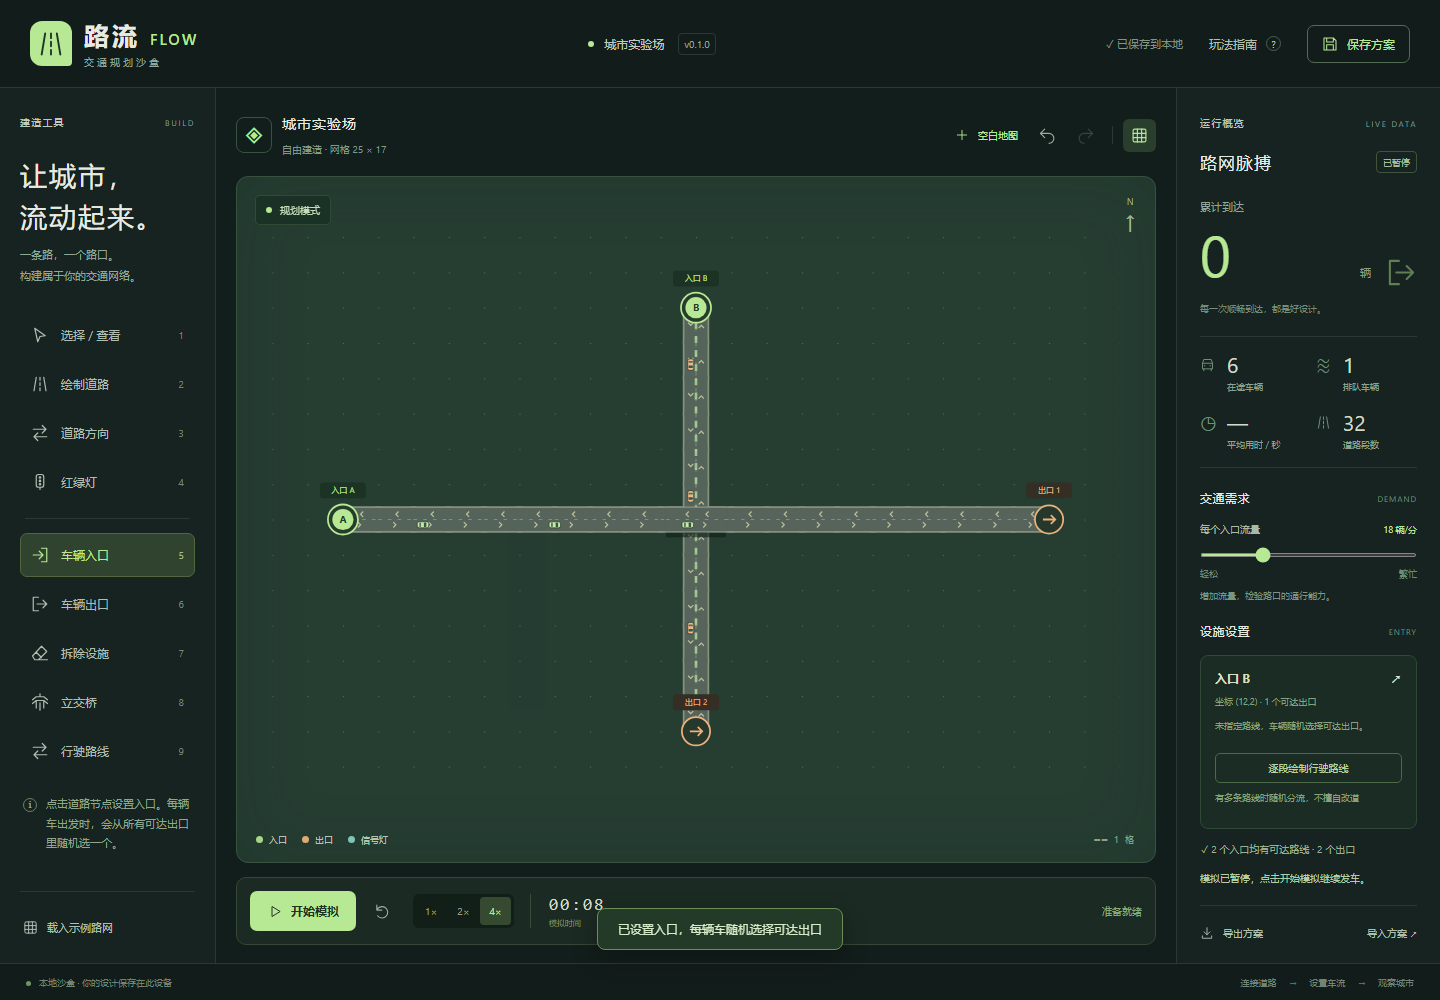
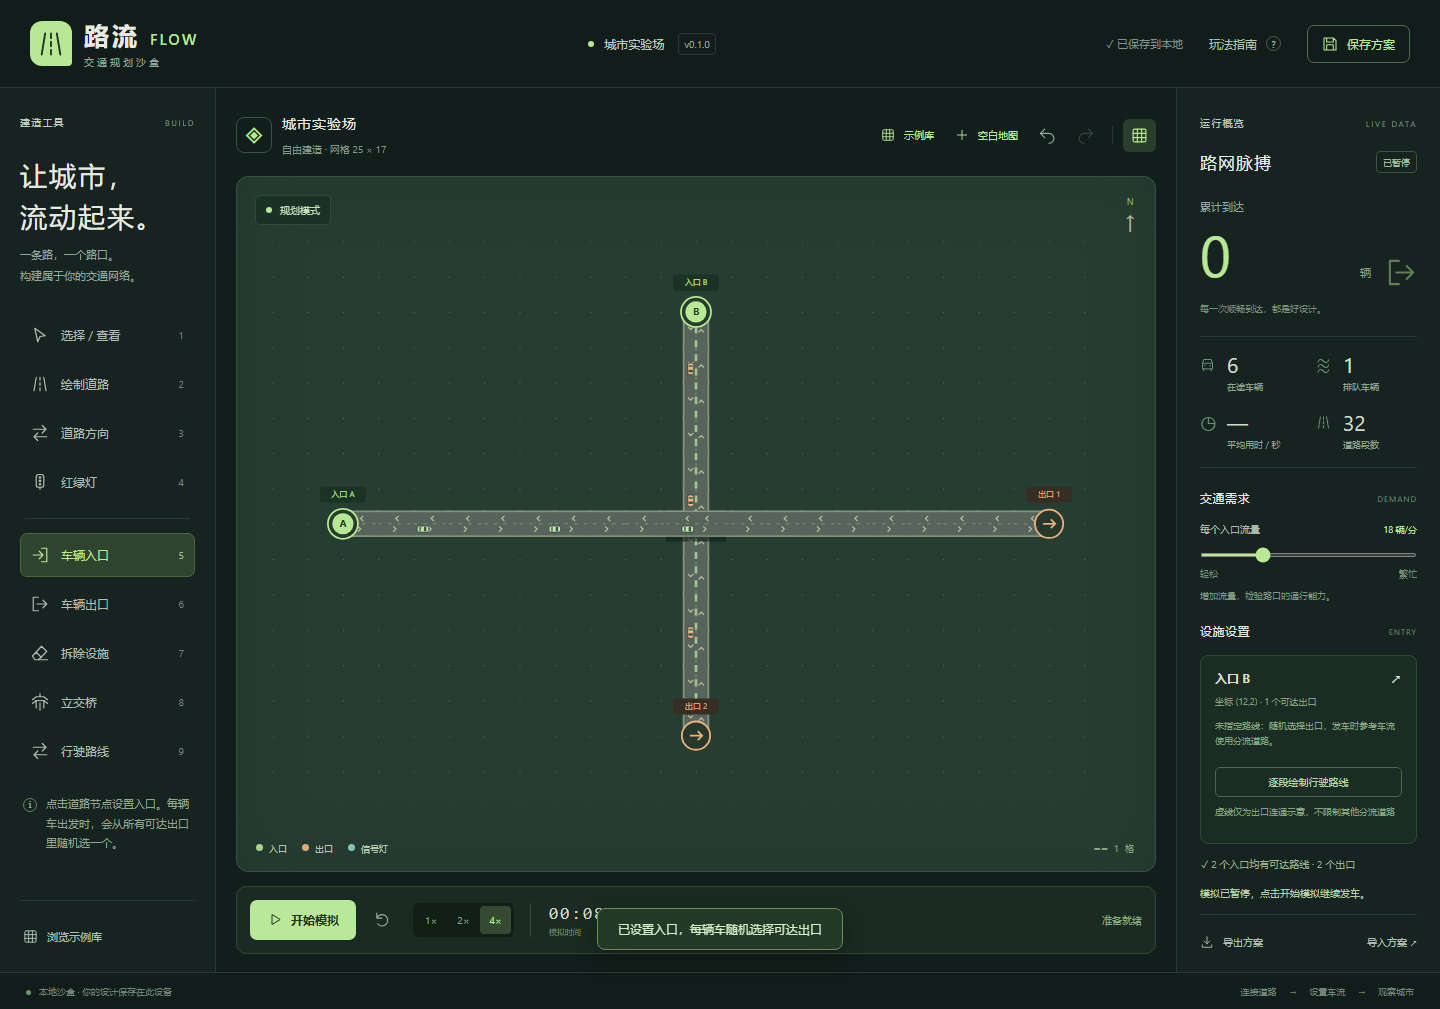
docs: verify six traffic examples and record browser evidence

diff --git a/doc/第一版本测试报告.md b/doc/第一版本测试报告.md
@@ -1,13 +1,13 @@
 # 路流第一版本测试报告
 
-日期：2026-10-21。Windows、Node 24.19.0；Chromium 151.0.7922.34。最终范围包括空白地图、随机出口、方向约束与立交跨线。
+日期：2026-10-21。Windows、Node 24.19.0；Chromium 151.0.7922.34。最终范围包括空白地图、随机出口、方向约束、立交跨线、自动分流与六例案例库。
 
 ## 结果
-- `node --test`：41 通过，0 失败（含 7 项立交测试、10 项路网测试、12 项仿真测试、6 项自由绘制/指定路线测试、3 项拥堵回归测试、3 项结构检查）。
-- `node scripts/build.js`：构建成功，dist 下 5 个运行文件。
+- `node --test`：63 通过，0 失败（7 项立交、10 项路网、12 项仿真、6 项自由绘制/指定路线、5 项拥堵回归、6 项自动分流、14 项案例库、3 项结构检查）。
+- `node scripts/build.js`：构建成功，dist 下 6 个运行文件。
 - `node --check src/app.js`：退出 0。
 - `git diff --check`：无空白错误。
-- `PLAYWRIGHT_MODULE=<本机已有 playwright@1.62.1 路径> node scripts/browser-check.js`：29 项浏览器检查通过，0 失败，页面错误 0。
+- `FLOW_BASE_URL=http://localhost:4267 PLAYWRIGHT_MODULE=<本机已有 playwright@1.62.1 路径> node scripts/browser-check.js`：40 项浏览器检查通过，0 失败，页面错误 0。重复载入修正后重新跑过完整回归。
 - 原始浏览器结果见 `evidence/browser-results.json`，可重跑脚本，无需使用用户正在编辑的页面。
 
 ## 自动化行为覆盖
@@ -31,6 +31,12 @@
 | I26 | 从入口经途经点到出口画指定路线，运行后车辆全部沿指定路线驶向该出口；补画第二条路线后两出口均出现车流 |
 | I27 | 把指定路线的首段改为逆行后停发，刷新仍保留指定路径，不自动退回其他可通道路 |
 | I28 | 运行时显示独立入口发车或等待腾位原因；暂停后明确提示继续发车的方法 |
+| I29 | 实际导入 66 段道路的分流路网，在此前被忽略的 7,5→8,5 道路上出现车流 |
+| I30 | 打开预览再关闭不替换地图，弹窗内键盘操作不触发背景模拟 |
+| I31 | 390px 手机可选择盘龙案例，无页面横向溢出；撤销恢复此前空图 |
+| I32（六项） | 逐个载入六份完整路网，与案例模型一致；每例实际运行到累计到达大于零 |
+| I33 | 载入示例后刷新，保存内容一致 |
+| I34 | 重复载入当前案例，暂停并归零车辆与模拟时间 |
 
 浏览器测试使用独立新上下文，随机源注入交替序列以保证分流检查可复现；实际游戏使用 Math.random。用户测试页采用 `http://localhost:4267/`，与原 `http://127.0.0.1:4267/` 页面分离存档，后续不再刷新原游戏页。
 
@@ -44,8 +50,15 @@
 
 旧实现在 60 秒时就有 180 辆在途，部分排队时全局上限已阻止有空位的入口发车；该随机序列继续运行至 120 秒最终出现全部等待，累计到达停在 111。用户报告的是局部堵塞，不能把后续复现的全堵当成用户当时状态。
 
-修复同时保证路口下游能容纳车间距和释放距离，及删除全局车辆数量准入门槛。固定种子运行 600 秒后：累计发车 2358、到达 2152、在途 206、等待 45，每个 60 秒窗口均持续发车与到达。局部排队仍可出现，有空位的其他入口不受全局数量限制。
+P9 修复同时保证路口下游能容纳车间距和释放距离，及删除全局车辆数量准入门槛。当时固定种子运行 600 秒后：累计发车 2358、到达 2152、在途 206、等待 45，每个 60 秒窗口均持续发车与到达。这组数字为 P9 阶段记录，后续加权选路会改变精确统计。当前版本的十分钟持续发车/到达回归仍通过。
 
 三条回归分别验证：红灯后车不占住前一处路口；实际路网 10 分钟持续流动；无关车道已有 180 辆时，空闲入口仍正常发车。新测试在旧规则下实际变红，修复后全部通过。
+
+P10 新增两项闭环队列协同预约回归：一个分段一辆的闭环可以共同向前移动，但红灯仍阻止放行。六项分流测试验证较长的低负载支路可被选中、指定路线优先、在途不换路、桥与单行限制，以及实际路网四段此前被忽略的道路产生车流。
+
+## 六个案例的验证
+`tests/examples.test.js` 共 14 项：模型彼此不同、每次创建独立副本、JSON 往返无损、所有指定路线可通、各入口有路线。每例持续模拟四分钟，逐分钟均有新增到达；另对各入口单独运行确保能到达。四叶草专门检查左转先经过中心桥再走象限回环。
+
+已查看桌面、手机案例库截图及运行中的四叶草截图：六卡片预览可辨、加载按钮可见，手机卡片纵向滚动无横向溢出。案例证据为 `evidence/examples-desktop.png`、`evidence/examples-mobile.png`、`evidence/cloverleaf-desktop.png`、`evidence/panlong-desktop.png`。可见独立页面已打开示例库，原游戏标签页未用于操作测试。
 
 这是 SVG 伪 3D 教学沙盒；桥上桥下不能直接转弯。每条指定路线按节点顺序执行；未设置指定路线的入口仍随机选择可达出口。交通物理与信号时序为简化模型，未进行真机安卓安装或远端发布。

diff --git a/doc/阶段性总结.md b/doc/阶段性总结.md
@@ -4,10 +4,12 @@
 
 已交付：纯空白起步、自由道路绘制（中途跨线/端点接入、指定上下层）、单向/双向方向、逐段指定车辆路线、红绿灯、多入口出口、逐车随机出口、排队仿真、到达与耗时统计、撤销重做、自动保存及 JSON 迁移、上下遮挡的双层独立通行。
 
-验证：41 项 Node 测试、29 项真实 Chromium 检查全部通过。静态构建 5 文件，支持直接打开 index.html 或本机服务，依赖仅用于开发时浏览器验收。已指定路线的车辆不擅自改道，线路失效会停发。
+验证：63 项 Node 测试、40 项真实 Chromium 检查全部通过。静态构建 6 文件，支持直接打开 index.html 或本机服务，依赖仅用于开发时浏览器验收。已指定路线的车辆不擅自改道，线路失效会停发。
 
 本机主页面为 http://127.0.0.1:4267/ ，独立测试页为 http://localhost:4267/ 。测试页与原页面的存档隔离，用户当前路网不用于测试操作。
 
 没有推送远端、打标签或发布；dist 为最新本机运行产物。后续可选项见重构待办。
 
-修复局部拥堵时固定 180 辆全局限制误停其他入口，以及下游空间不足造成路口占用互锁。实际路网连续模拟 600 秒，发出 2358 辆，到达 2152 辆。
+修复局部拥堵时固定 180 辆全局限制误停其他入口，以及下游空间不足造成路口占用互锁。实际路网连续模拟 600 秒的持续发车与到达回归通过；闭环队列可以在路口许可时协同预约前进。
+
+自动车流在出发前按道路负载选路，连通的分流支路有实际流量；指定路线始终优先。新增六例可选案例库：城市、高架、菱形、四叶草、盘龙、单向环路；全有预设行驶路线，可继续编辑。盘龙为 6 入口、8 跨线、30 路线的网格化简化示意。可在手机预览选择，加载可撤销，重复加载同例重置模拟。

diff --git a/doc/案例说明.md b/doc/案例说明.md
@@ -1,0 +1,16 @@
+# 可运行的路网示例
+
+地图上方「示例库」或桌面左下「浏览示例库」打开六张预览卡片。点击一张卡片载入，再点击「开始模拟」。全部案例使用与自由建造相同的数据和仿真规则，可以修改、保存、导出。载入会替换当前图，撤销可恢复；浏览、关闭不会修改地图。
+
+| 案例 | 入口 | 跨线点 | 指定路线 | 观察要点 |
+|---|---:|---:|---:|---|
+| 城市信号路网 | 3 | 0 | 9 | 保留原城市示例，比较信号周期与分流 |
+| 双层高架跨线 | 4 | 1 | 4 | 两条主路分层直行，互不转弯 |
+| 菱形立交 | 4 | 1 | 12 | 四条定向匝道，两处信号控制的接入点 |
+| 四叶草立交 | 4 | 1 | 12 | 四象限回环；左转按指定路线先过桥再绕行 |
+| 盘龙立交 | 6 | 8 | 30 | 多次跨线与定向匝道构成复杂路网 |
+| 单向环形分流 | 4 | 0 | 12 | 入口汇入同一行驶方向的环路，从不同出口离开 |
+
+四叶草和盘龙均为网格化、简化的教学示意。盘龙案例用于体验复杂枢纽的多跨线拓扑，不代表真实建筑的比例、全部匝道或精确层数。当前每个交叉点使用上下两层表示，车辆在跨线点只直行；转向通过其他路段实现。
+
+每辆车随机选择该入口已有指定路线对应的出口，再严格沿指定路线行驶。双层高架的每个入口仅通往另一端的一个出口；其他案例为入口准备多出口路线。默认流量为城市 18 辆/分，其他案例 12 辆/分；可自行调高观察排队。

diff --git a/doc/实施计划.md b/doc/实施计划.md
@@ -55,9 +55,9 @@
 - **Files**：src/core.js、src/simulation.js、src/app.js、tests/diversion.test.js、tests/fixtures/diversion-grid.json、scripts/browser-check.js、doc/第一版本测试报告.md。
 
 
-## P11 可运行的示例库 `[COMPLETE]`
+## P11 可运行的示例库 `[VERIFIED]`
 - **Objective**：把单个示例替换为可预览选择的案例库，包含城市平交、高架跨线、菱形立交、四叶草、盘龙式复杂立交与单向环形分流。
 - **Definition of Done**：全部案例可验证、各入口有合法指定路线、模拟持续有到达；真实浏览器逐个加载运行、撤销恢复旧图、关闭不改图，手机可打开选择且无横向溢出；真实案例明确标记网格化示意。
 - **Files**：src/examples.js、src/app.js、index.html、styles.css、scripts/build.js、tests/examples.test.js、scripts/browser-check.js、doc/案例说明.md。
 
-验证证据：P10 已通过 49 项 Node 测试与 30 项 Chromium 交互检查。P11 完成后更新汇总报告及截图。
+验证证据：2026-10-21，完整 63 项 Node 测试与 40 项 Chromium 交互检查通过（0 错误），构建 6 文件；见第一版本测试报告及 evidence/browser-results.json、examples-desktop.png、examples-mobile.png。六例均通过路线校验和持续车流测试，浏览器逐例实际到达；重复载入同例重置、关闭不改图、撤销与刷新保存均通过。

diff --git a/README.md b/README.md
@@ -11,7 +11,7 @@ node scripts/serve.js
 然后打开 http://127.0.0.1:4267 。无需安装第三方依赖。
 
 ## 玩法
-无存档时从纯空白网格开始，有存档则恢复上次设计。地图上方的「空白地图」可随时重新开始，清空后支持撤销。左侧「载入示例路网」可打开演示。
+无存档时从纯空白网格开始，有存档则恢复上次设计。地图上方的「空白地图」可随时重新开始，清空后支持撤销。「示例库」可预览并选择城市信号路网、双层高架跨线、菱形立交、四叶草立交、盘龙立交、单向环形分流六个案例。每个案例配好入口、出口与指定行驶路线，载入后可运行、继续编辑，也可撤销回原图。四叶草与盘龙为网格化简化示意，详见 [案例说明](doc/案例说明.md)。
 
 1. 画路工具：拖动连接，或依次点击两个网格节点。
 2. 入口 / 出口工具：在道路节点上放置入口和出口。
